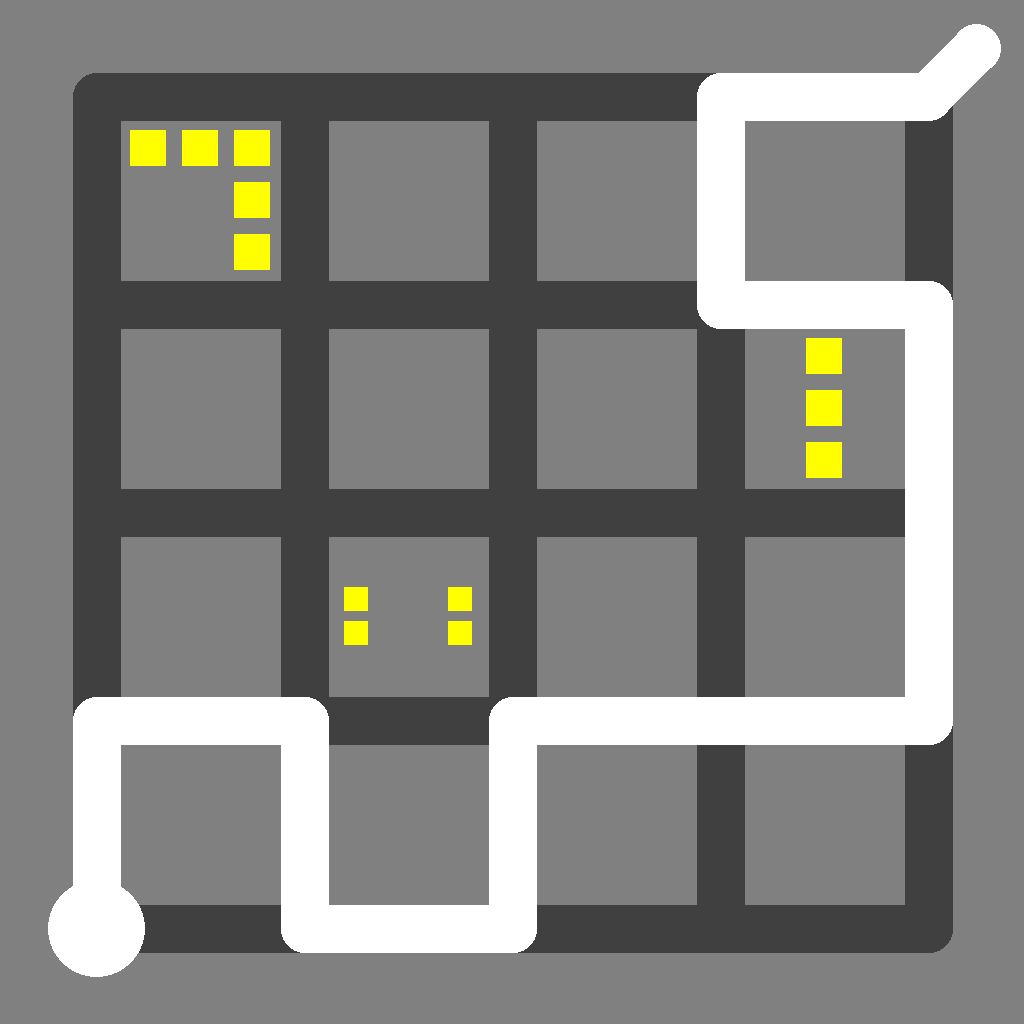
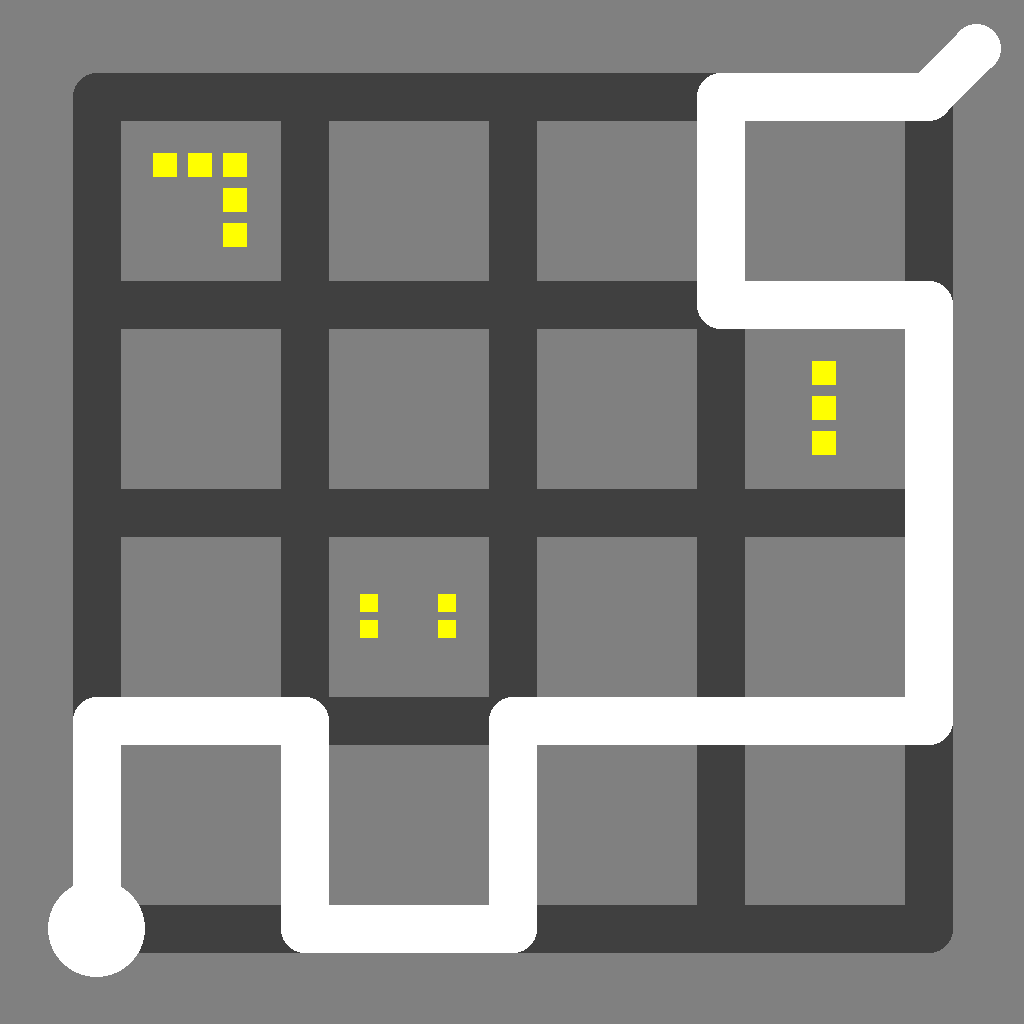
Add files via upload

diff --git a/PYTHON/render.py b/PYTHON/render.py
@@ -203,13 +203,25 @@ def render(output, puzzle, width = 1024, height = 1024, margin = 96, thickness =
 
 			if (isinstance(element, BlockGroup)):
 				angle = 0 if element.oriented else -1 * math.pi / 6
-				dimension = max(element.boundingbox[0], element.boundingbox[1]) - 1
+				dimension = max(element.boundingbox[0], element.boundingbox[1])
 
 				shape = generateDrude((xpos, ypos), element, grid_spacing / dimension, angle)
 				for s in shape:
 					draw.polygon(s, fill = colorize(puzzle, (i, j)))
 
+			# Draw cancels
 
+			if (isinstance(element, Cancel)):
+				crad = grid_spacing / 4
+				linewidth = thickness // 2
+				color = colorize(puzzle, (i, j))
+				if (element.color == Color.NIL):
+					color = Color.WHITE.value
+				if (not element.ignored):
+					color = Color.RED.value
+				draw.line((xpos, ypos - crad, xpos, ypos), width = linewidth, fill = color)
+				draw.line((xpos - crad * math.sqrt(0.75), ypos + crad * 0.5, xpos, ypos), width = linewidth, fill = color)
+				draw.line((xpos + crad * math.sqrt(0.75), ypos + crad * 0.5, xpos, ypos), width = linewidth, fill = color)
 
 			# Draw the path
 			if (element.isPathOccupied):

diff --git a/PYTHON/grid.py b/PYTHON/grid.py
@@ -448,6 +448,8 @@ class Grid:
 						continue
 					vis.add(nextone)
 					q.put(nextone)
+					q.put(mid)
+					vis.add(mid)
 			
 			self.ignored.add(ii)
 			self.board[ii[0]][ii[1]].ignored = True
@@ -467,6 +469,8 @@ class Grid:
 				if isinstance(o, BlockGroup):
 					self.blocks.discard(i)
 				
+				self.violations.discard(i)
+				
 				if self.ver(src):
 					retval = True
 				
@@ -481,13 +485,15 @@ class Grid:
 					self.triangles.add(i)
 				if isinstance(o, BlockGroup):
 					self.blocks.add(i)
+				self.violations.add(i)
 				if (retval):
 					break
 			
-			self.ignored.discard(ii)
-			self.board[ii[0]][ii[1]].ignored = False
 			if (retval):
 				return True
+
+			self.ignored.discard(ii)
+			self.board[ii[0]][ii[1]].ignored = False
 		
 		return False
 		

diff --git a/PYTHON/main.py b/PYTHON/main.py
@@ -8,7 +8,7 @@ from render import render
 
 thegroup = BlockGroup(True, False, {(0, 0), (-1, 0), (0, -1)})
 
-board = [[Endpoint(True), Dot(), Object(), Object(), Object()], [Object(), Star(Color.BLACK), Object(), thegroup, Object()], [Object(), Object(), Object(), Object(), Object()], [Object(), Triangle(2), Object(), Star(Color.BLACK), Object()], [Object(), Object(), Object(), Object(), Endpoint(False)]]
+board = [[Endpoint(True), Dot(), Object(), Object(), Object()], [Object(), Star(Color.BLACK), Object(), Cancel(), Object()], [Object(), Object(), Object(), Object(), Object()], [Object(), Triangle(2), Object(), Star(Color.BLACK), Object()], [Object(), Object(), Object(), Object(), Endpoint(False)]]
 
 for i in range(5):
 	for j in range(5):
